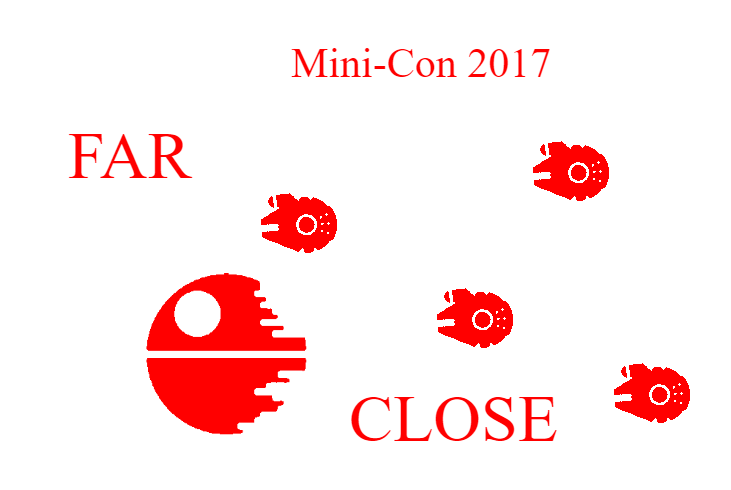
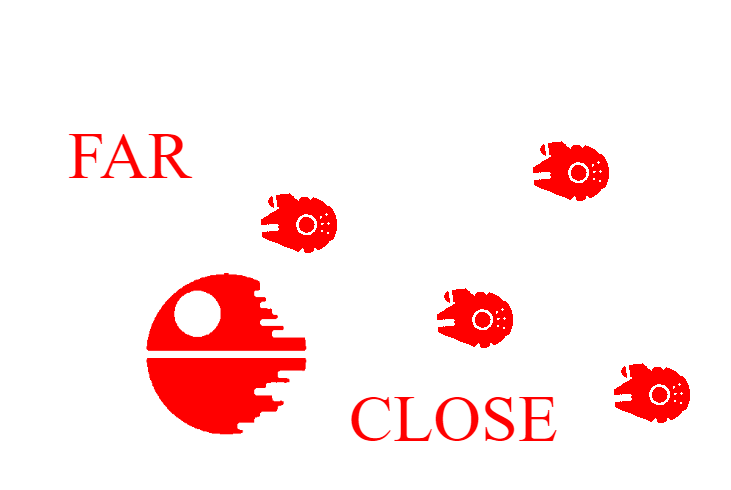
Changes for Minicon 2023

Changed region(s): [[0.3912, 0.0918, 0.7524, 0.1531]]

diff --git a/MiniCon.html b/MiniCon.html
@@ -23,9 +23,9 @@
 	&nbsp;<br>
 		<table width="100%"><tr><td>
 		
-		<div class="header-img-blk" align="center">
+		<div class="header-img-blue" align="center">
 			<a href="https://www.facebook.com/events/1219382674817350"target="_blank">
-				<img src="images/minicon2017.png" height="120" valign="middle" hspace="25"></a>
+				<img src="images/MiniConLogo.png" height="120" valign="middle" hspace="25"></a>
 			<a href="http://www.orcsgirls.org" target="_blank">
 				<img src="images/OrcsGirlsLogo.png" height="100" hspace="25" valign="middle"></a>
 			<br clear="all">
@@ -33,7 +33,7 @@
 		<p align="center"></p>
 			<div id="container" class="white">
 			<div class="boxes" align="center">
-				<img src="images/Example-Red.png" height="300"></a>
+				<img src="images/Example-Red.png" height="400"></a>
 				<p align="right">First image is red - check with your red-cyan glasses. 
 				                  Close each eye. What do you see? - 
 								  <a href="#" onclick="cycleBox();">Next step</a>
@@ -41,7 +41,7 @@
 			</div>
 		
 			<div class="boxes" align="center" style="display:none;">
-				<img src="images/Example-Cyan.png" height="300"></a>
+				<img src="images/Example-Cyan.png" height="400"></a>
 				<p align="right">Second image is cyan - check with your red-cyan glasses, 
 							      Close each eye. What changed? - 
 								  <a href="#" onclick="cycleBox();">Next step</a>
@@ -49,19 +49,18 @@
 			</div>
 			
 			<div class="boxes" align="center" style="display:none;">
-				<img src="images/Example.png" height="300"></a>
+				<img src="images/Example.png" height="400"></a>
 				<p align="right">Combining both images - do you see it in 3D? - 
 								  <a href="#" onclick="cycleBox();">Return to beginning</a>
 								  &nbsp;&nbsp;&nbsp;</p>
 			</div>
 		</div>
-				
-		<h2>Ready to draw in 3D ?</h2>
-		<p align="center"><a href="DrawingPad.html">3D Drawing Tool</a></p>
-		<p align="center"><a href="DrawingGallery.html">3D Drawings Gallery</a></p>
-
-		<hr>
-		<p align="left" class="footer"><a href="https://github.com/tproffen/Anaglyphs" target="_blank">Code on Github</a>
+		<div class="large" align="center">		
+		Ready? Click to start the <a href="DrawingPad.html">3D Drawing Tool</a>
+		</div>
+		
+		<p align="left" class="footer"><a href="https://github.com/tproffen/Anaglyphs" target="_blank">Code on Github</a> - 
+		<a href="images/MiniCon-Sheet.pdf" target="_blank">Instruction sheet</a>
 		<a rel="license" href="http://creativecommons.org/licenses/by-sa/4.0/"><img alt="Creative Commons License" 
 		   style="border-width:0" align="right" src="https://i.creativecommons.org/l/by-sa/4.0/88x31.png"/></a>
 		</p>

diff --git a/DrawingPad.html b/DrawingPad.html
@@ -14,7 +14,7 @@
   	<tr><th colspan="2">
 	  <div id="warning" name="warning"></div>
 	  <h1>Anaglyph Drawing Pad</h1></th></tr>
-	<tr><td id="canvasArea" rowspan="2" class="white">
+	<tr><td id="canvasArea" class="white">
 	    <canvas id="canvas">Your browser does not support the HTML 5 Canvas.</canvas></td>
 	
 	<td><input type="button" value="Clear" id="clearCanvas">
@@ -43,19 +43,32 @@
 			Stamp:<br>
     		<select id="stamps"></select><br>
 			<input type="button" value="Place stamp" id="placeStamp">
-			
-	</td></tr>
-	<tr><td height="15%">
-			-
+		<br>&nbsp;<br>
+		<hr>
+		<br>&nbsp;<br>		
+			<input type="button" value="Download image" onclick="download()">
 	</td></tr>
 	<tr><td colspan="2">
-		<p align="left" class="footer">(c) <a href="mailto:thomasproffen@gmail.com">Thomas Proffen</a>, 2020.
+		<p align="left" class="footer">(c) <a href="mailto:thomasproffen@gmail.com">Thomas Proffen</a>, <span id="year"></span>.
 		<a rel="license" href="http://creativecommons.org/licenses/by-sa/4.0/"><img alt="Creative Commons License" 
 		   style="border-width:0" align="right" src="https://i.creativecommons.org/l/by-sa/4.0/88x31.png"/></a>
 		</p>
 	</td></tr>	
   </table>
 	<center><font size="-1">Use red-cyan glasses to see your drawing in 3D.</font></center>
-    	<script type="text/javascript">drawingApp.init();</script>
+    
+	<script type="text/javascript">drawingApp.init();</script>
+	<script>
+	document.getElementById("year").innerHTML = new Date().getFullYear();
+	
+	function download() {
+		var canvas = document.getElementById("canvas");
+		var dataURL = canvas.toDataURL("image/png");
+		var link = document.createElement("a");
+		link.href = dataURL;
+		link.download = "AnaglyphDrawing.png";
+		link.click(); 
+	}
+  </script>
 </body>
 </html>

diff --git a/styles/Anaglyphs.css b/styles/Anaglyphs.css
@@ -28,12 +28,20 @@ hr {
 	margin: 5px;
 }
 
+.large {
+	background-color: #EEEEFF;
+	vertical-align: middle;
+	font-size: 150%;
+	padding: 15px;
+	margin: 5px;
+}
+
 tr, td, th {
 	padding: 5px;
 	margin: 5px;
 	vertical-align: top;
 	border: 1px solid #999;
-	background-color: #EEEEEE;
+	background-color: #FFFFFF;
 	font-size: 100%;
 }
 
@@ -55,8 +63,7 @@ h1 {
 h2 {
 	font-size: 125%;
 	text-align: center;
-	color: #FFFFFF;
-	background-color: #777777;
+	background-color: #EEEEFF;
 	margin: 5px;
 	padding: 5px;
 }
@@ -65,7 +72,7 @@ h3 {
 	font-size: 100%;
 	text-align: center;
 	color: #FFFFFF;
-	background-color: #888888;
+	background-color: #EEEEFF;
 	margin: 5px;
 	padding: 5px;
 }
@@ -74,23 +81,24 @@ h4 {
 	font-size: 100%;
 	text-align: center;
 	color: #000000;
-	background-color: #EEEEEE;
+	background-color: #EEEEFF;
 	margin: 5px;
 	padding: 5px;
 }
 
 input {
 	padding: 1px;
-	margin: 1px;
+	margin: 2px;
 	font-size: 100%;	
 }
 input[type=range] {
-  width: 100%;
+    width: 100%;
 }
 
 input[type=button] {
-	padding: 1px;
-	margin: 1px;
+	background-color: #EEEEFF;
+	padding: 5px;
+	border: 1px solid #999;
 	width: 100%;
 	font-size: 100%;
 }
@@ -121,6 +129,13 @@ select {
 
 .header-img-blk {
 	background-color: #000000;
+	vertical-align: middle;
+	color: #000000;
+	margin: 5px;
+}
+
+.header-img-blue {
+	background-color: #EEEEFF;
 	vertical-align: middle;
 	color: #000000;
 	margin: 5px;

diff --git a/index.html b/index.html
@@ -22,14 +22,13 @@
 		</p>
 		
 		<h2>Tools and code</h2>
-		<p align="center"><a href="" onclick="window.open('DrawingPad.html');">Anaglyph Drawing Pad</a> - Draw in 3D, 
-		<a href="" onclick="window.open('DrawingGallery.html');">Gallery</a></p>
+		<p align="center"><a href="" onclick="window.open('DrawingPad.html');">Anaglyph Drawing Pad</a> - Draw in 3D</p>
 		<p align="center"><a href="" onclick="window.open('DualCamera.html');">Anaglyph Camera</a> - 3D Pictures from two cameras</p>
 		<p align="center"><a href="" onclick="window.open('FourierCamera.html');">Fourier Camera</a> - Explore Fourier Transforms</p>
 		<p align="center"><a href="" onclick="window.open('https://github.com/tproffen/Anaglyphs');">Code on Github</a></p>
 
 		<hr>
-		<p align="left" class="footer">(c) <a href="mailto:thomasproffen@gmail.com">Thomas Proffen</a>, 2017.
+		<p align="left" class="footer">&copy; <a href="mailto:thomasproffen@gmail.com">Thomas Proffen</a>, <span id="year"></span>.
 		<a rel="license" href="http://creativecommons.org/licenses/by-sa/4.0/"><img alt="Creative Commons License" 
 			style="border-width:0" align="right" src="https://i.creativecommons.org/l/by-sa/4.0/88x31.png"/></a>
 		</p>
@@ -37,5 +36,8 @@
 	</table></center>
 
   <script src="scripts/Anaglyphs.js"></script>
+  <script>
+	document.getElementById("year").innerHTML = new Date().getFullYear();
+  </script>
 </body>
 </html>

diff --git a/scripts/DrawingPad.js b/scripts/DrawingPad.js
@@ -16,7 +16,6 @@ var drawingApp = (function () {
 		offsetInput,
 		widthInput,
 		message,
-		gallery,
 		context,
 		memContext,
 		oldContext,
@@ -199,7 +198,6 @@ var drawingApp = (function () {
 		redoButton.addEventListener("click", cRedo, false);
 		eraserButton.addEventListener("click", toggleErase, false);
 		textButton.addEventListener("click", placeText, false);
-		gallery.addEventListener("click", uploadCanvas, false);
 		stampButton.addEventListener("click", placeStamp, false);
 		
 		
@@ -373,7 +371,6 @@ var drawingApp = (function () {
 		redoButton = document.getElementById('Redo');
 		eraserButton = document.getElementById('eraser');
 		textButton = document.getElementById('placeText');
-		gallery = document.getElementById('gallery');
 		message = document.getElementById('message');
 		offsetInput = document.getElementById('offset');
 		widthInput = document.getElementById('lineWidth');

diff --git a/DualCamera.html b/DualCamera.html
@@ -54,7 +54,7 @@
     </tr>
 	
 	<tr><td colspan="3">
-		<p align="left" class="footer">(c) <a href="mailto:thomasproffen@gmail.com">Thomas Proffen</a>, 2017.
+		<p align="left" class="footer">&copy; <a href="mailto:thomasproffen@gmail.com">Thomas Proffen</a>, <span id="year"></span>.
 		<a rel="license" href="http://creativecommons.org/licenses/by-sa/4.0/"><img alt="Creative Commons License" 
 		   style="border-width:0" align="right" src="https://i.creativecommons.org/l/by-sa/4.0/88x31.png"/></a>
 		</p>
@@ -62,5 +62,8 @@
   </table>  
   
   <script src="scripts/DualCamera.js"></script>
+  <script>
+	document.getElementById("year").innerHTML = new Date().getFullYear();
+  </script>
 </body>
 </html>
